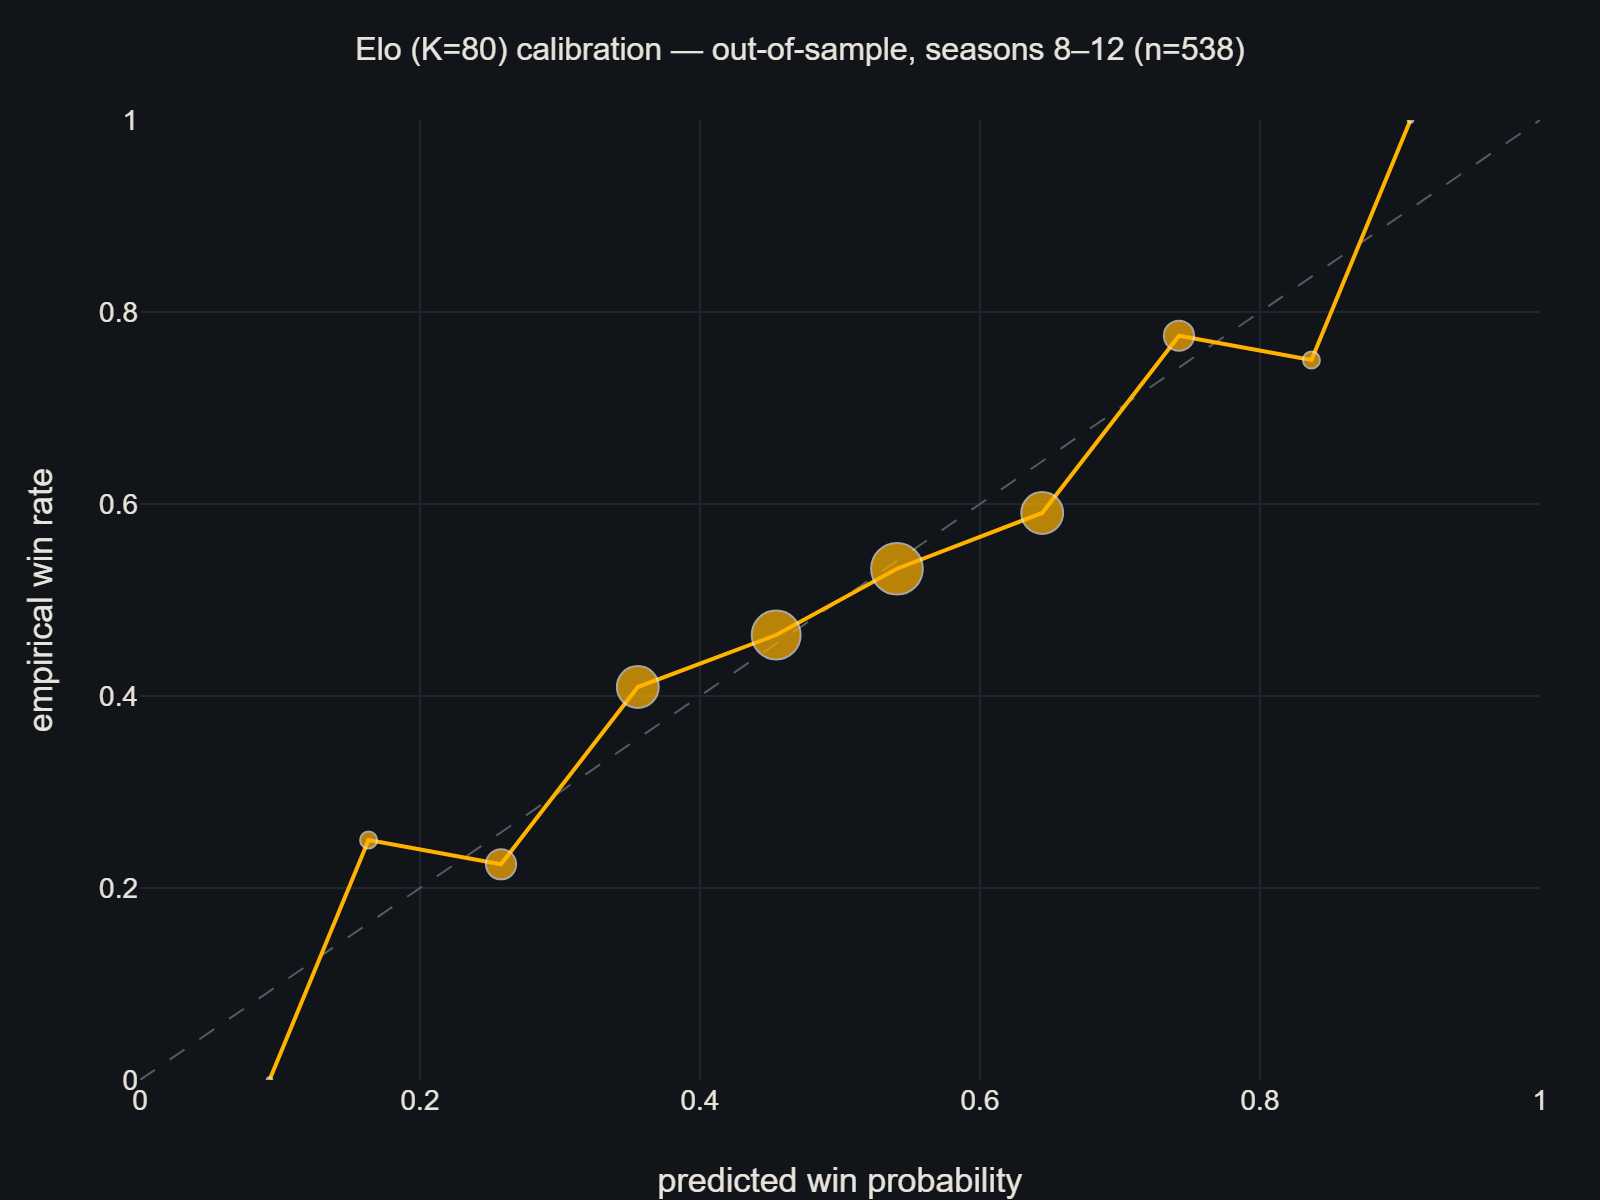
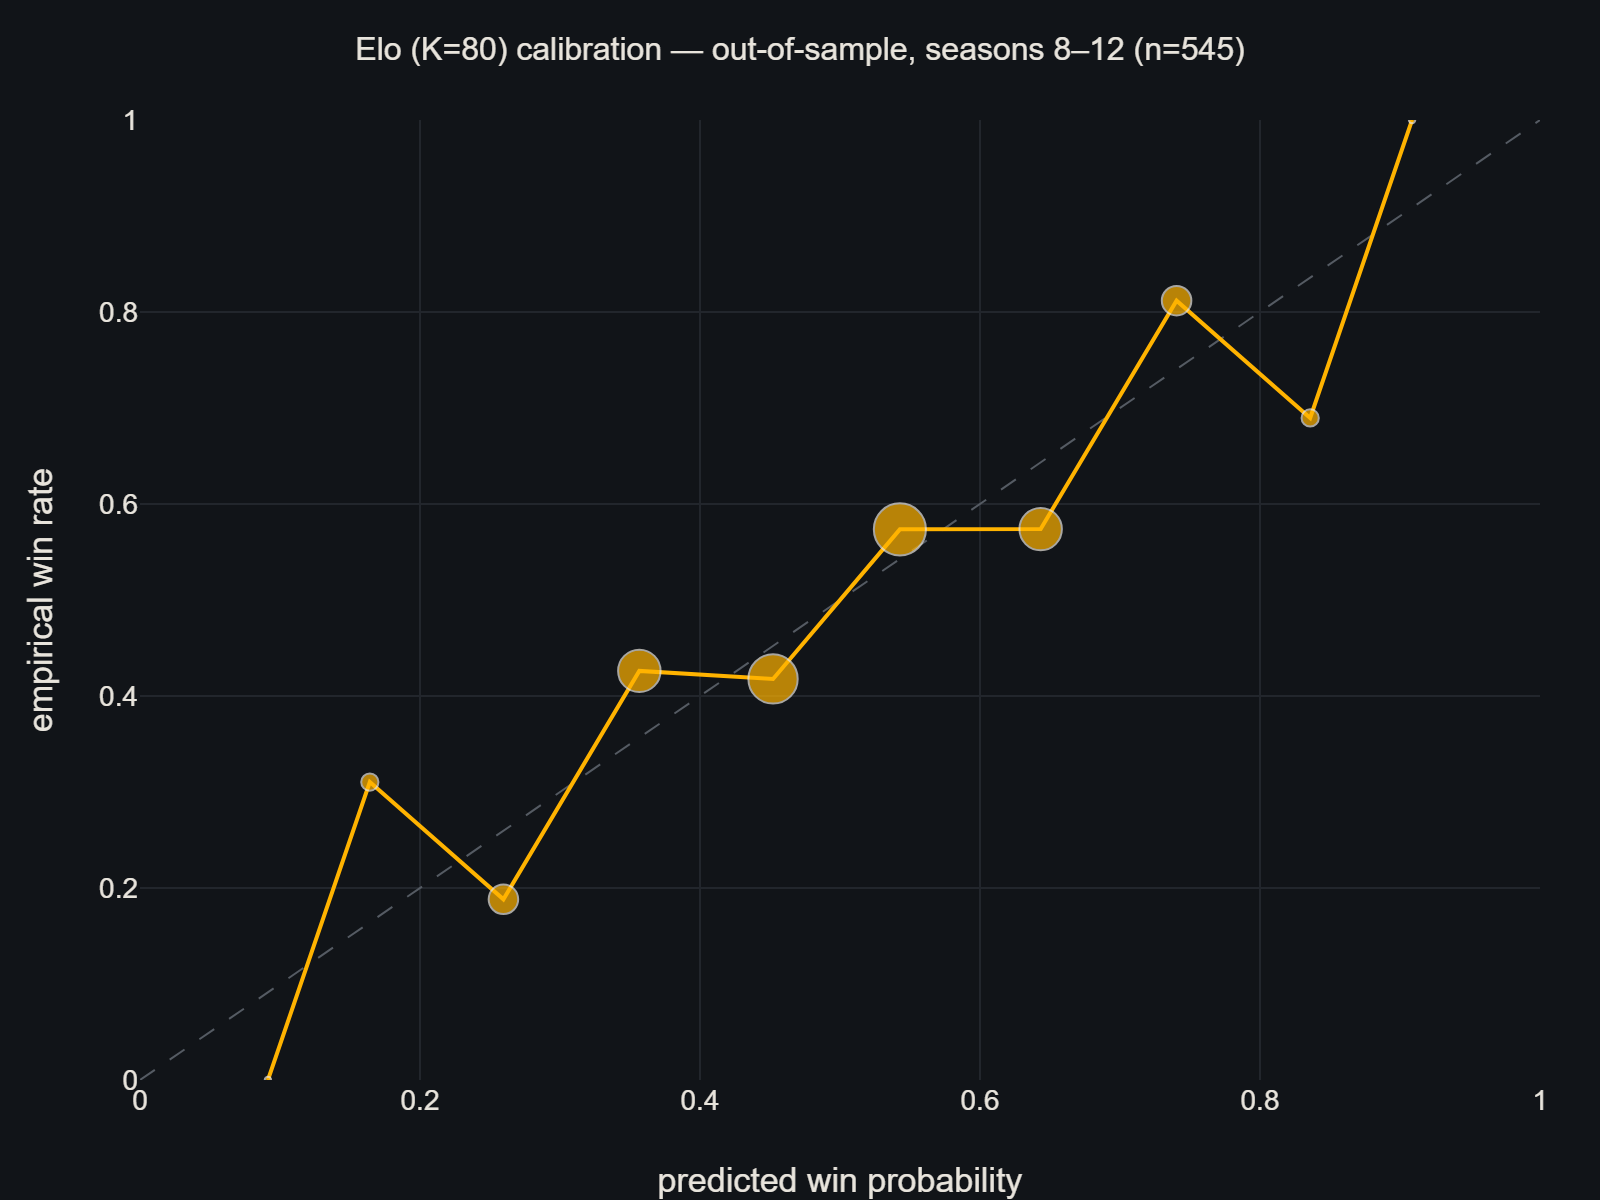
corpus-v2 regeneration: model version elo-k80-v2 (week-2 registration untouched), calibration + analyses rebuilt (weapon chart now entry-share vs win-rate - adoption, not dominance), stale baseline constants corrected

diff --git a/src/pitboss/analyses.py b/src/pitboss/analyses.py
@@ -41,39 +41,55 @@ LAYOUT = dict(
 
 
 def weapon_meta() -> None:
+    """Entry share (how much of the field) + win rate (efficacy) per class.
+
+    Win SHARE alone is participation-confounded: verticals win more fights mostly
+    because more verticals enter. Entry share shows adoption; win rate shows edge.
+    """
     df = load_matches()
     wclass = dict(pd.read_csv(CLEAN / "weapon_classes.csv")[["bot", "weapon_class"]].values)
-    df["winner_class"] = df.winner.map(lambda b: wclass.get(b, "other"))
-    counts = df.groupby(["season", "winner_class"]).size().rename("n").reset_index()
-    counts["share"] = counts.n / counts.groupby("season").n.transform("sum")
-    share = counts
-    share["wc"] = share.season - 5
+    rows = []
+    for r in df.itertuples():
+        for bot in (r.bot_a, r.bot_b):
+            rows.append({"season": r.season, "cls": wclass.get(bot, "other"),
+                         "won": int(bot == r.winner)})
+    app_df = pd.DataFrame(rows)
+    agg = app_df.groupby(["season", "cls"]).agg(apps=("won", "size"), wins=("won", "sum")).reset_index()
+    agg["entry_share"] = agg.apps / agg.groupby("season").apps.transform("sum")
+    agg["win_rate"] = agg.wins / agg.apps
+    agg["wc"] = agg.season - 5
 
     fig = go.Figure()
-    for cls in CLASS_COLORS:
-        sub = share[share.winner_class == cls]
-        if sub.empty:
-            continue
+    for cls in ("spinner-vertical", "spinner-horizontal", "hammer-saw", "flipper", "control-wedge"):
+        sub = agg[agg.cls == cls]
+        hero = cls == "spinner-vertical"
         fig.add_trace(go.Scatter(
-            x=sub.wc, y=sub.share, name=cls.replace("-", " "),
-            mode="lines+markers", line=dict(color=CLASS_COLORS[cls], width=3 if cls == "spinner-vertical" else 1.5),
-            marker=dict(size=7 if cls == "spinner-vertical" else 5)))
+            x=sub.wc, y=sub.entry_share, name=f"{cls.replace('-', ' ')} — entry share",
+            mode="lines+markers", line=dict(color=CLASS_COLORS[cls], width=3 if hero else 1.5),
+            marker=dict(size=7 if hero else 5)))
+        if hero:
+            fig.add_trace(go.Scatter(
+                x=sub.wc, y=sub.win_rate, name="vertical spinner — win rate",
+                mode="lines+markers", line=dict(color=CLASS_COLORS[cls], width=1.5, dash="dot"),
+                marker=dict(size=5)))
+    fig.add_hline(y=0.5, line=dict(color="#555b63", dash="dash", width=1))
     fig.update_layout(
         **LAYOUT, width=900, height=560,
-        title=dict(text="Share of wins by weapon class, World Championship I–VII", font=dict(size=16)),
+        title=dict(text="The vertical-spinner takeover is adoption, not dominance — "
+                        "entry share (solid) vs win rate (dotted)", font=dict(size=15)),
         xaxis=dict(title="World Championship", tickmode="array",
                    tickvals=list(range(1, 8)), ticktext=["I", "II", "III", "IV", "V", "VI", "VII"],
                    gridcolor=GRID, zeroline=False),
-        yaxis=dict(title="share of wins", tickformat=".0%", gridcolor=GRID, zeroline=False),
+        yaxis=dict(title="share / rate", tickformat=".0%", gridcolor=GRID, zeroline=False),
         legend=dict(bgcolor=CANVAS, borderwidth=0),
     )
     fig.write_image("assets/weapon_meta.png", scale=2)
 
-    wide = share.pivot_table(index="wc", columns="winner_class", values="share").fillna(0)
-    print("win share by class per WC:")
-    print((wide * 100).round(1).to_string())
-    v = wide.get("spinner-vertical")
-    print(f"\nvertical-spinner win share: WC I {v.iloc[0]:.0%} -> WC VII {v.iloc[-1]:.0%}")
+    v = agg[agg.cls == "spinner-vertical"].sort_values("wc")
+    print("vertical spinners per WC (entry share / win rate):")
+    print(v[["wc", "entry_share", "win_rate"]].round(3).to_string(index=False))
+    print("\nCaveat (recorded): weapon classes are current-era registry labels; a few "
+          "bots ran different configurations in early seasons (e.g. Bite Force WC I).")
 
 
 def hype_vs_perf() -> None:

diff --git a/src/pitboss/exp_upgrades.py b/src/pitboss/exp_upgrades.py
@@ -18,9 +18,9 @@ from pitboss.aliases import canon, load as load_aliases
 from pitboss.elo import BASE, TEST_SEASON, VAL_SEASONS, load_matches, metrics, p_win
 
 CLEAN = Path("data/clean")
-BASELINE_VAL_LL = 0.6502
-BASELINE_TEST_LL = 0.6430
-BASELINE_TEST_BRIER = 0.2299
+BASELINE_VAL_LL = 0.6502  # corpus v1; rerun pending on v2
+BASELINE_TEST_LL = 0.6419
+BASELINE_TEST_BRIER = 0.2260
 SCALE = 173.7178
 MU0 = 0.0
 PHI0 = 350.0 / SCALE

diff --git a/src/pitboss/bt.py b/src/pitboss/bt.py
@@ -128,7 +128,7 @@ def main() -> None:
     print(f"\nHELD-OUT season {TEST_SEASON}, hl={hl} l2_theta={l2t} l2_m={l2m}:")
     print(f"  log_loss={m['log_loss']:.4f}  brier={m['brier']:.4f}  "
           f"acc={m['accuracy']:.3f}  n={m['n']}")
-    print("  (Elo baseline held-out: log_loss=0.6430, brier=0.2299 — BT ships as "
+    print("  (Elo baseline held-out: log_loss=0.6419, brier=0.2260 (corpus v2) — BT ships as "
           "primary only if it beats BOTH)")
 
 

diff --git a/src/pitboss/predict.py b/src/pitboss/predict.py
@@ -27,7 +27,7 @@ from pitboss.aliases import canon, load as load_aliases
 from pitboss.elo import BASE, load_matches, p_win
 
 K = 80
-MODEL_VERSION = "elo-k80-v1"
+MODEL_VERSION = "elo-k80-v2"  # v2 = corrected 626-fight corpus (2026-07-09)
 CLEAN = Path("data/clean")
 PRED = Path("data/predictions")
 LOW_DATA_FIGHTS = 5